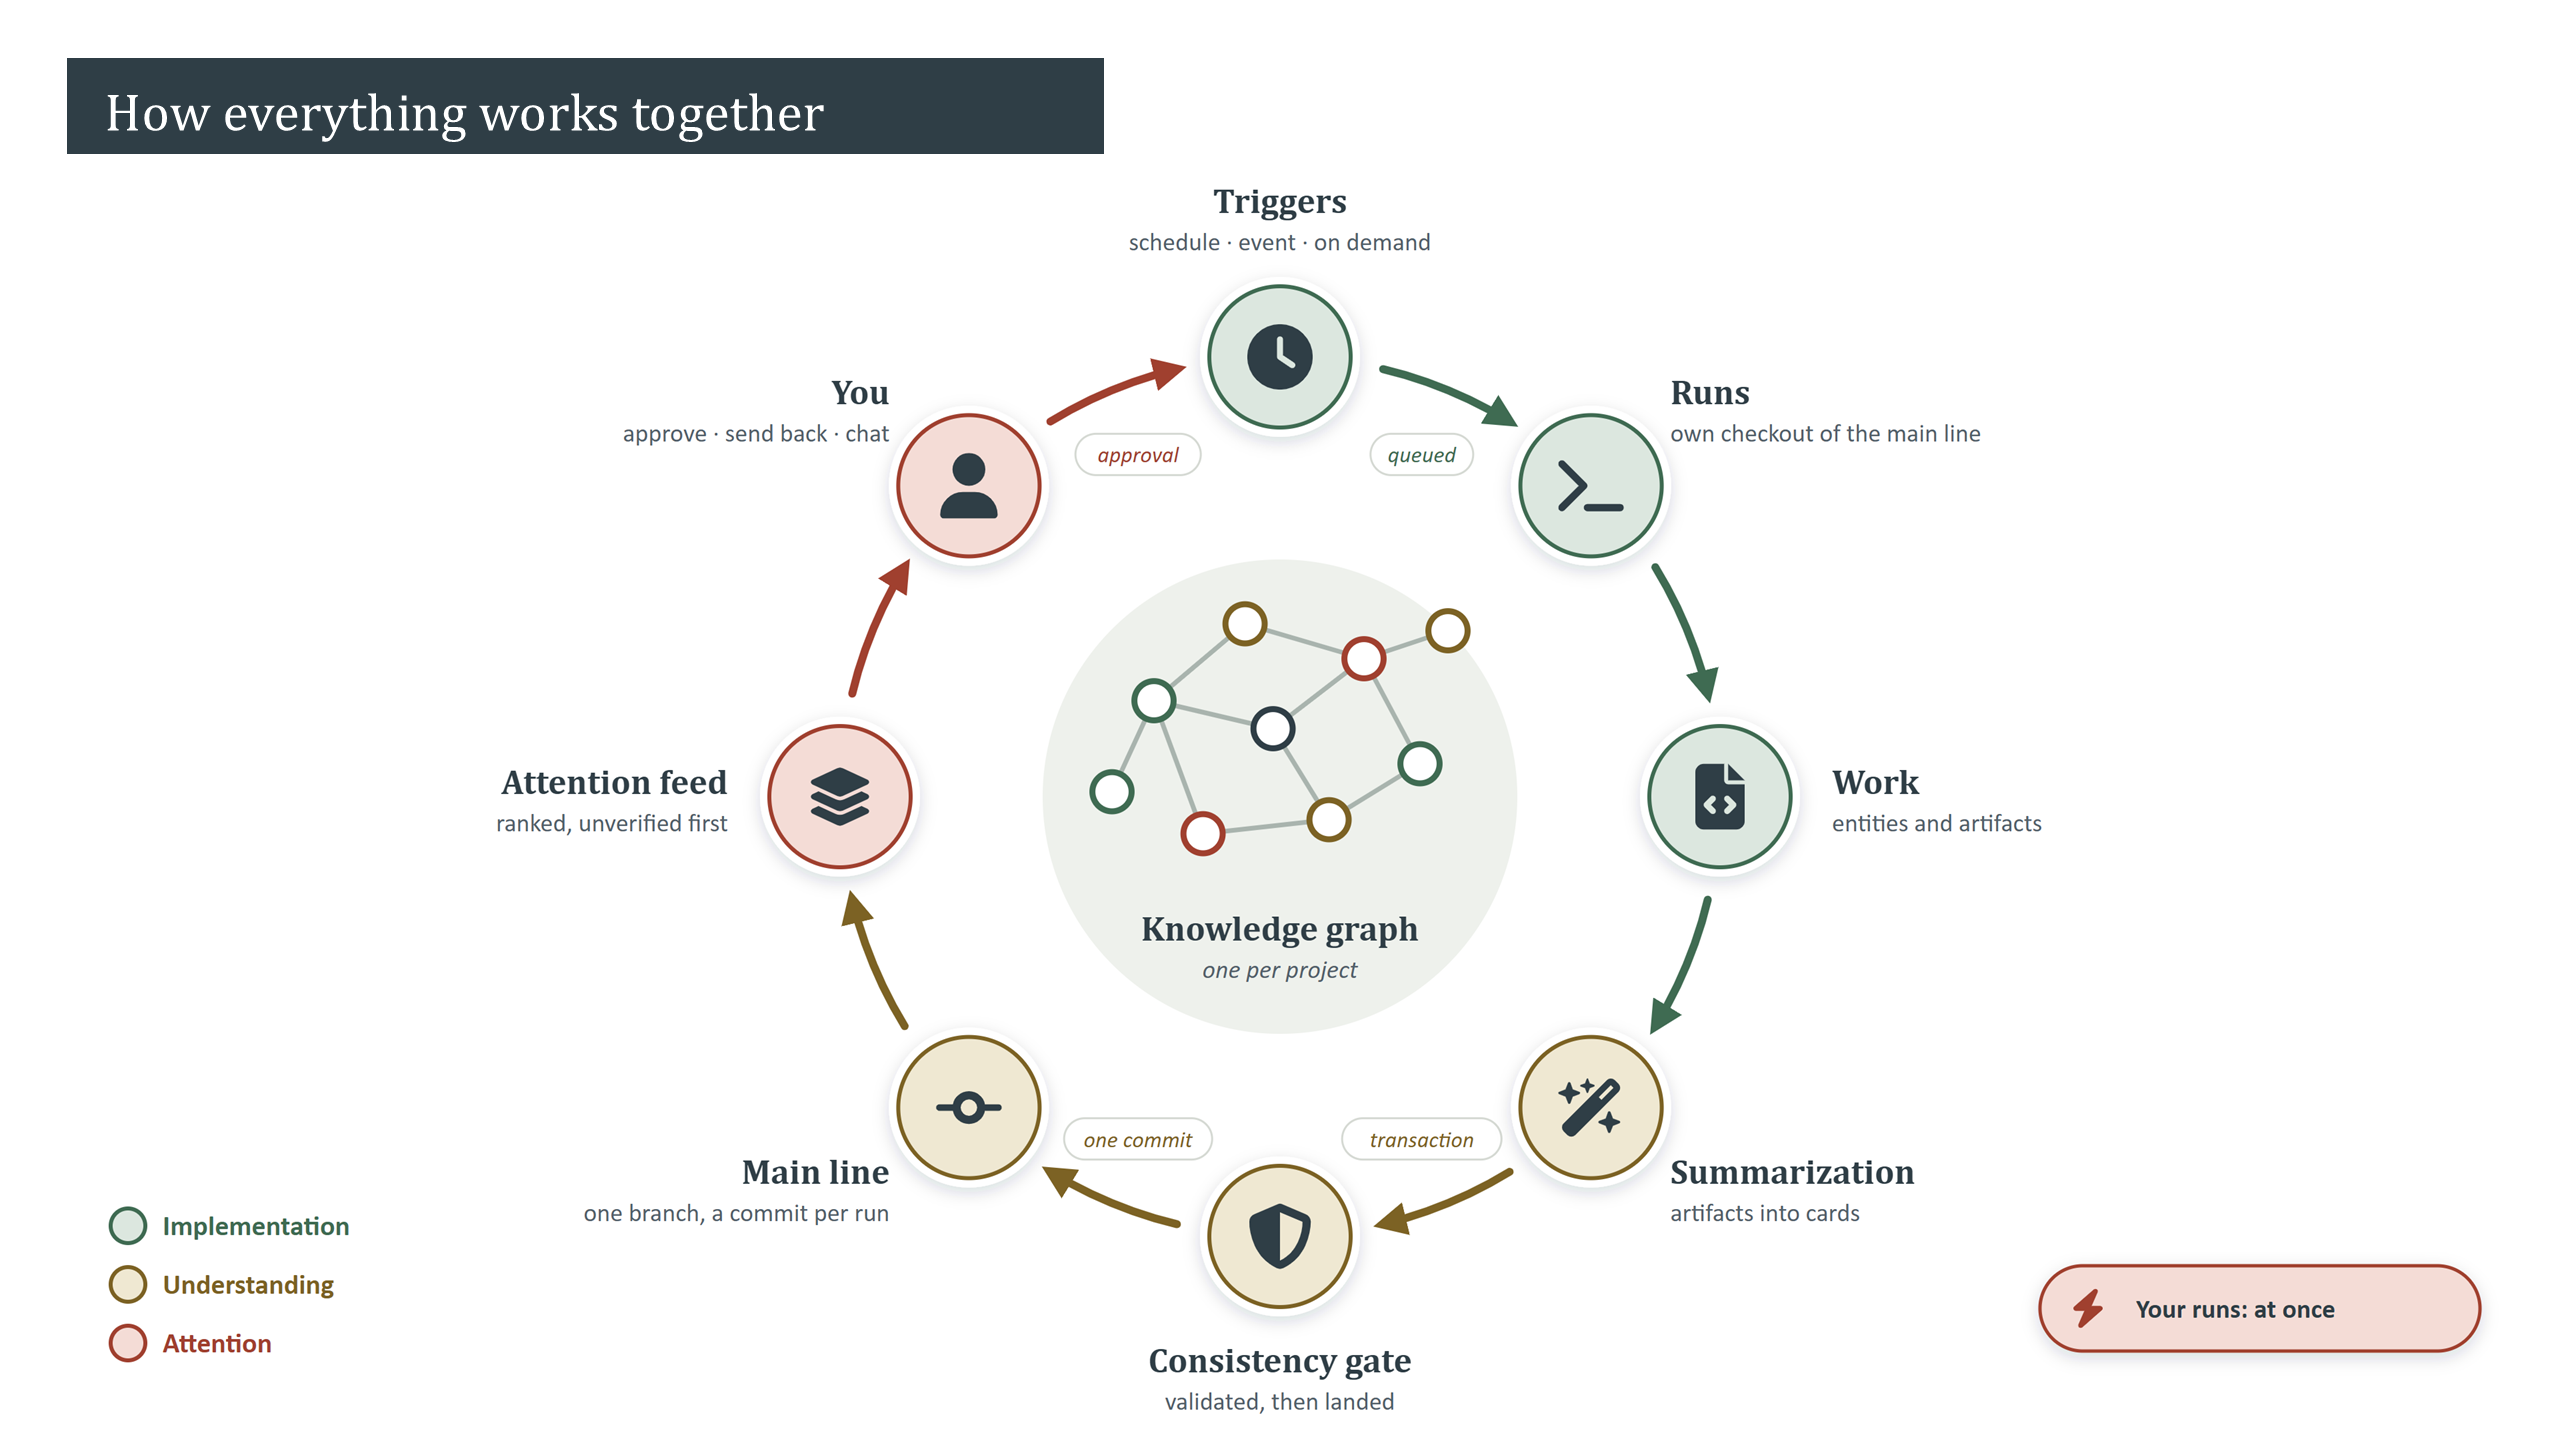
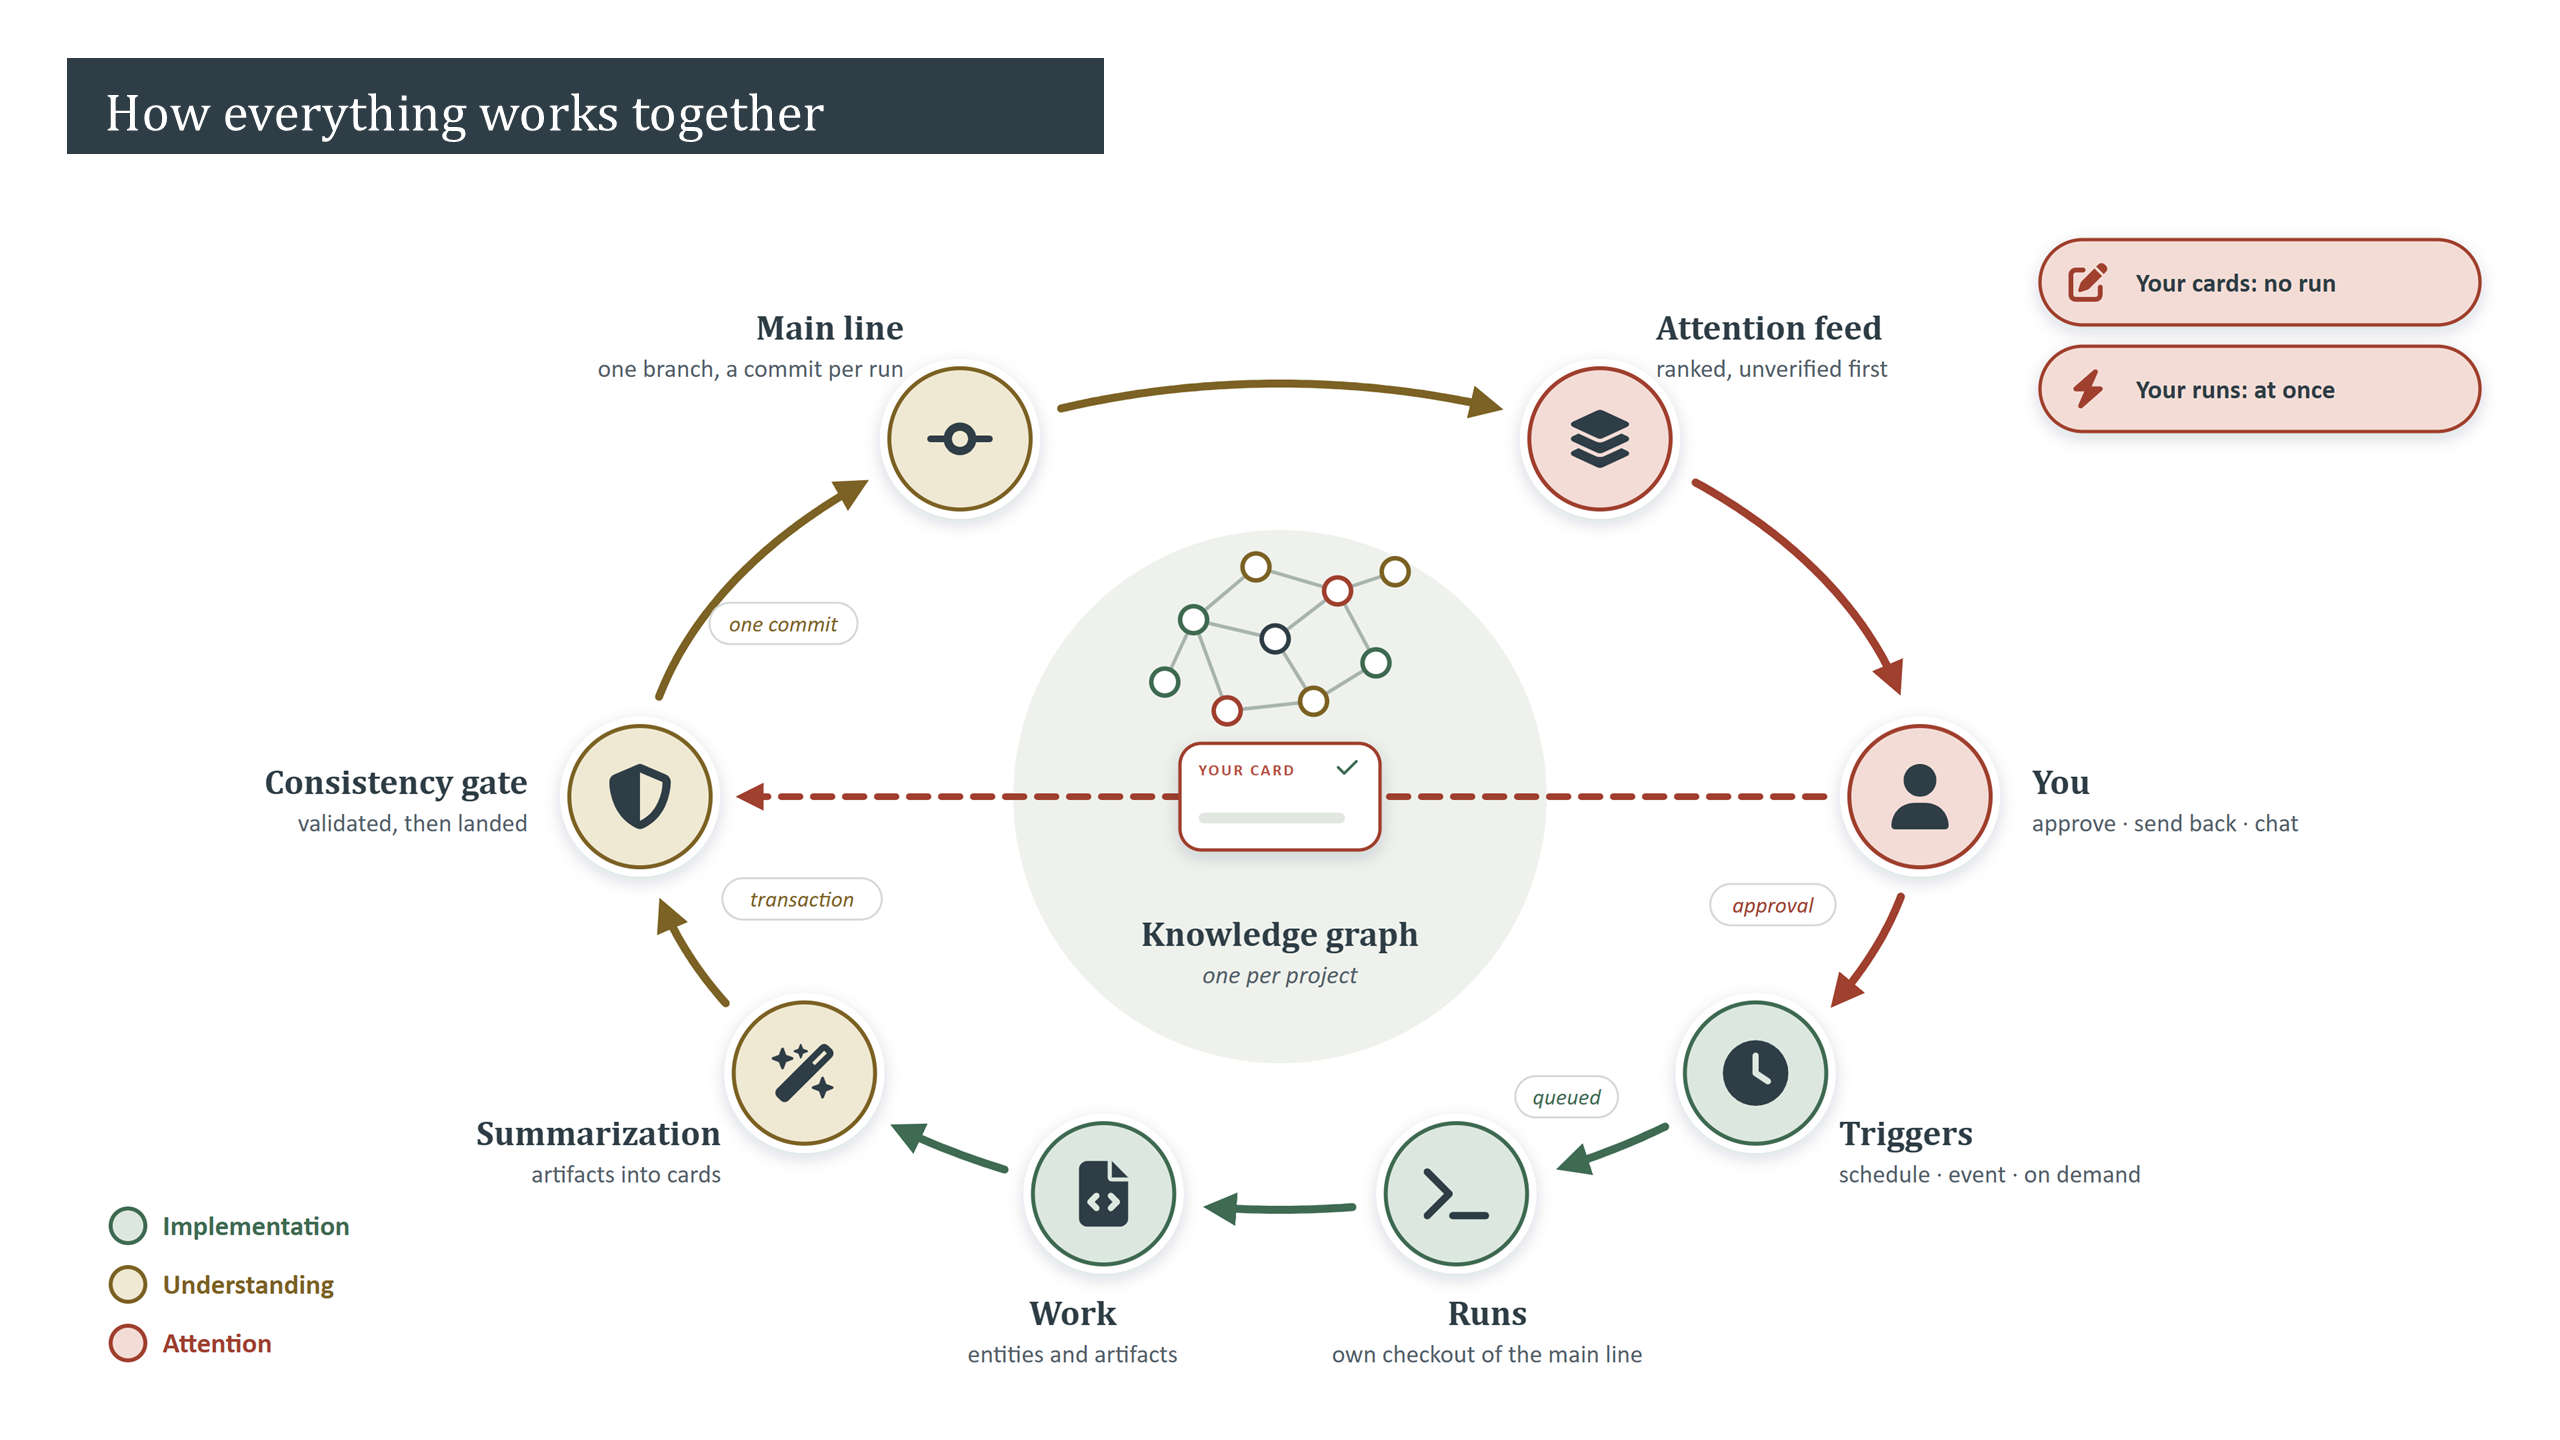
Show the user's own cards as a shortcut through the loop
The loop slide is now an ellipse with You on the right and the consistency gate on the left; a card the user writes crosses the middle straight to the gate, verified, with no run behind it. The spec says the same: every origin reaches the main line through the consistency guard, the user's own entities land verified, automation entities land unverified and reach the feed.

diff --git a/docs/harness-diagram.mechanics.js b/docs/harness-diagram.mechanics.js
@@ -185,35 +185,46 @@ const svg = (body) => `<svg xmlns="http://www.w3.org/2000/svg" width="${W}" heig
 
 // ---------------------------------------------------------------- 1. the loop
 function loop() {
-  const cx = 960, cy = 468, R = 330, r = 60;
+  // an ellipse: You on the right, the consistency gate on the left, the shortcut between them through the middle;
+  // the stations are listed as if You sat on the left and turned half a circle (ROT)
+  const cx = 960, cy = 468, Rx = 480, Ry = 310, r = 60, ROT = 180;
   const S = [
-    ['Triggers', 'FaClock', 'prod', 'schedule · event · on demand'],
-    ['Runs', 'FaTerminal', 'prod', 'own checkout of the main line'],
-    ['Work', 'FaFileCode', 'prod', 'entities and artifacts'],
-    ['Summarization', 'FaWandMagicSparkles', 'kn', 'artifacts into cards'],
-    ['Consistency gate', 'FaShieldHalved', 'kn', 'validated, then landed'],
-    ['Main line', 'FaCodeCommit', 'kn', 'one branch, a commit per run'],
-    ['Attention feed', 'FaLayerGroup', 'att', 'ranked, unverified first'],
-    ['You', 'FaUser', 'att', 'approve · send back · chat'],
+    ['You', 'FaUser', 'att', 'approve · send back · chat', 180],
+    ['Triggers', 'FaClock', 'prod', 'schedule · event · on demand', 222],
+    ['Runs', 'FaTerminal', 'prod', 'own checkout of the main line', 254],
+    ['Work', 'FaFileCode', 'prod', 'entities and artifacts', 286],
+    ['Summarization', 'FaWandMagicSparkles', 'kn', 'artifacts into cards', 318],
+    ['Consistency gate', 'FaShieldHalved', 'kn', 'validated, then landed', 360],
+    ['Main line', 'FaCodeCommit', 'kn', 'one branch, a commit per run', 420],
+    ['Attention feed', 'FaLayerGroup', 'att', 'ranked, unverified first', 480],
   ];
-  let g = circle(cx, cy, 178, { fill: C.paper });
-  g += graph(cx, cy - 30, 1.05);
-  g += caption(cx, cy + 108, 'Knowledge graph', 'one per project', { anchor: 'middle', italic: true });
-  const rad = (d) => (d * Math.PI) / 180, delta = (r + 18) / R;
-  S.forEach(([, , layer], i) => {
-    const a0 = rad(-90 + 45 * i) + delta, a1 = rad(-90 + 45 * (i + 1)) - delta;
-    g += path(`M${pt([cx + R * Math.cos(a0), cy + R * Math.sin(a0)])} A${R} ${R} 0 0 1 ${pt([cx + R * Math.cos(a1), cy + R * Math.sin(a1)])}`, { stroke: LAYER[layer].strong, sw: 6, head: layer });
+  const rad = (d) => (d * Math.PI) / 180;
+  const at = (deg, k = 0) => [cx + (Rx - k) * Math.cos(rad(deg + ROT)), cy + (Ry - k) * Math.sin(rad(deg + ROT))];
+  let g = circle(cx, cy, 200, { fill: C.paper });
+  g += graph(cx, cy - 104, 0.72);
+  g += caption(cx, cy + 112, 'Knowledge graph', 'one per project', { anchor: 'middle', italic: true });
+  // the outer loop, station to station along the ellipse
+  S.forEach(([, , layer, , a0], i) => {
+    const a1 = i < S.length - 1 ? S[i + 1][4] : 540, c0 = at(a0), c1 = at(a1), pts = [];
+    for (let d = a0; d <= a1; d += 0.5) {
+      const p = at(d);
+      if (Math.hypot(p[0] - c0[0], p[1] - c0[1]) > r + 16 && Math.hypot(p[0] - c1[0], p[1] - c1[1]) > r + 22) pts.push(p);
+    }
+    g += path(`M${pts.map(pt).join(' L')}`, { stroke: LAYER[layer].strong, sw: 6, head: layer });
   });
-  const onArc = (deg, s, layer) => pill(cx + (R - 52) * Math.cos(rad(deg)), cy + (R - 52) * Math.sin(rad(deg)), s, { color: LAYER[layer].strong });
-  g += onArc(-67.5, 'queued', 'prod');
-  g += onArc(67.5, 'transaction', 'kn');
-  g += onArc(112.5, 'one commit', 'kn');
-  g += onArc(-112.5, 'approval', 'att');
-  S.forEach(([name, ic, layer, sub], i) => {
-    const a = rad(-90 + 45 * i), x = cx + R * Math.cos(a), y = cy + R * Math.sin(a);
+  const onArc = (deg, s, layer, k = 50) => pill(...at(deg, k), s, { color: LAYER[layer].strong });
+  g += onArc(201, 'approval', 'att', 84);
+  g += onArc(240, 'queued', 'prod');
+  g += onArc(339, 'transaction', 'kn', 96);
+  g += onArc(390, 'one commit', 'kn');
+  // the shortcut: a card you write yourself goes straight to the gate, verified, with no run behind it
+  g += line(cx + Rx - r - 12, cy, cx - Rx + r + 18, cy, { stroke: LAYER.att.strong, sw: 5, dash: '14 10', head: 'att' });
+  g += miniCard(cx - 75, cy - 40, 150, 80, { crumb: 'YOUR CARD', glyphs: ['verified'], bars: [0.9, 0.7], pad: 14, stroke: LAYER.att.strong, sw: 2.5 });
+  S.forEach(([name, ic, layer, sub, deg]) => {
+    const [x, y] = at(deg);
     g += medallion(x, y, r, LAYER[layer], ic);
-    const c = Math.cos(a), s = Math.sin(a), lx = cx + (R + r + 24) * c, ly = cy + (R + r + 24) * s;
-    const anchor = c > 0.3 ? 'start' : c < -0.3 ? 'end' : 'middle';
+    const c = Math.cos(rad(deg + ROT)), s = Math.sin(rad(deg + ROT)), lx = x + (r + 24) * c, ly = y + (r + 24) * s;
+    const anchor = c > 0.4 ? 'start' : c < -0.4 ? 'end' : 'middle';
     const ty = s < -0.9 ? ly - 24 : s > 0.9 ? ly + 18 : ly - 2;
     g += caption(lx, ty, name, sub, { anchor });
   });
@@ -222,8 +233,9 @@ function loop() {
     const y = 790 + i * 44;
     g += circle(96, y, 13, { fill: LAYER[k].wash, stroke: LAYER[k].strong, sw: 3 }) + text(122, y + 7, s, { size: 21, fill: LAYER[k].strong, bold: true });
   });
-  // user runs bypass the queue
-  g += pod(1530, 820, 330, 64, 'Your runs: at once', 'FaBolt', LAYER.att);
+  // what you do yourself: runs bypass the queue, cards need no run
+  g += pod(1530, 50, 330, 64, 'Your cards: no run', 'FaPenToSquare', LAYER.att);
+  g += pod(1530, 130, 330, 64, 'Your runs: at once', 'FaBolt', LAYER.att);
   return svg(g);
 }
 
@@ -604,7 +616,7 @@ function actions() {
 
 // ---------------------------------------------------------------- slides
 const SLIDES = [
-  ['How everything works together', loop, 'One loop per project. Triggers queue runs; each run works in its own checkout of the main line; summarization turns its artifacts into cards; the consistency gate validates the transaction and lands it as one commit; the index follows the main line and the feed ranks what is unverified; the user approves, sends back or chats. Runs the user starts go at once, alongside the queued automation runs.'],
+  ['How everything works together', loop, 'One loop per project. Triggers queue runs; each run works in its own checkout of the main line; summarization turns its artifacts into cards; the consistency gate validates the transaction and lands it as one commit; the index follows the main line and the feed ranks what is unverified; the user approves, sends back or chats. A card the user writes needs no run: it goes straight through the consistency gate and lands verified. Runs the user starts go at once, alongside the queued automation runs.'],
   ['Entities', entities, 'The unit of the knowledge base. The type is the path on disk. The entity is its card, within the character limit. References link entities and are walked by Graph RAG. A summary is an entity with artifacts beneath it.'],
   ['Entity states', states, "Verification is the user's judgement: approval verifies, any rewrite by a run makes the entity unverified again. Sync is the entity against its artifacts and implementation. Contradictions count the open contradiction issues over the entity."],
   ['Automations', automations, 'Ten automations around the knowledge graph, each with its trigger: schedule, event, the user, the Stop hook or enabling the project. Automation runs go one at a time per project; runs the user starts go at once.'],

diff --git a/docs/SPEC.md b/docs/SPEC.md
@@ -106,7 +106,9 @@ Starts and supervises the background automation loops, per project. It ships in 
 - The full list of entity types lives in a separate document: [Entity types](entity-types.tsv)
 - The unit is the entity; it is standalone and needs no artifact behind it
 - A summary is a flavour of entity: an entity with underlying artifacts, written by summarization
-- Entities arrive by three origins: added by the user directly, requested by the user and written by an automation, or raised by an automation on its own; every origin reaches the main line through the feed
+- Entities arrive by three origins: added by the user directly, requested by the user and written by an automation, or raised by an automation on its own; every origin reaches the main line through the consistency guard
+  - An entity the user adds directly needs no run: it passes the guard and lands verified
+  - An entity an automation writes lands unverified and reaches the user through the feed
 - Every entity is its card, written by whoever writes the entity; a card has no fixed structure
   - The user configures how cards are written; the one rule the configuration always sets is a character limit
   - The limit is sized so a card fits on a mobile screen; within it a card can be anything
